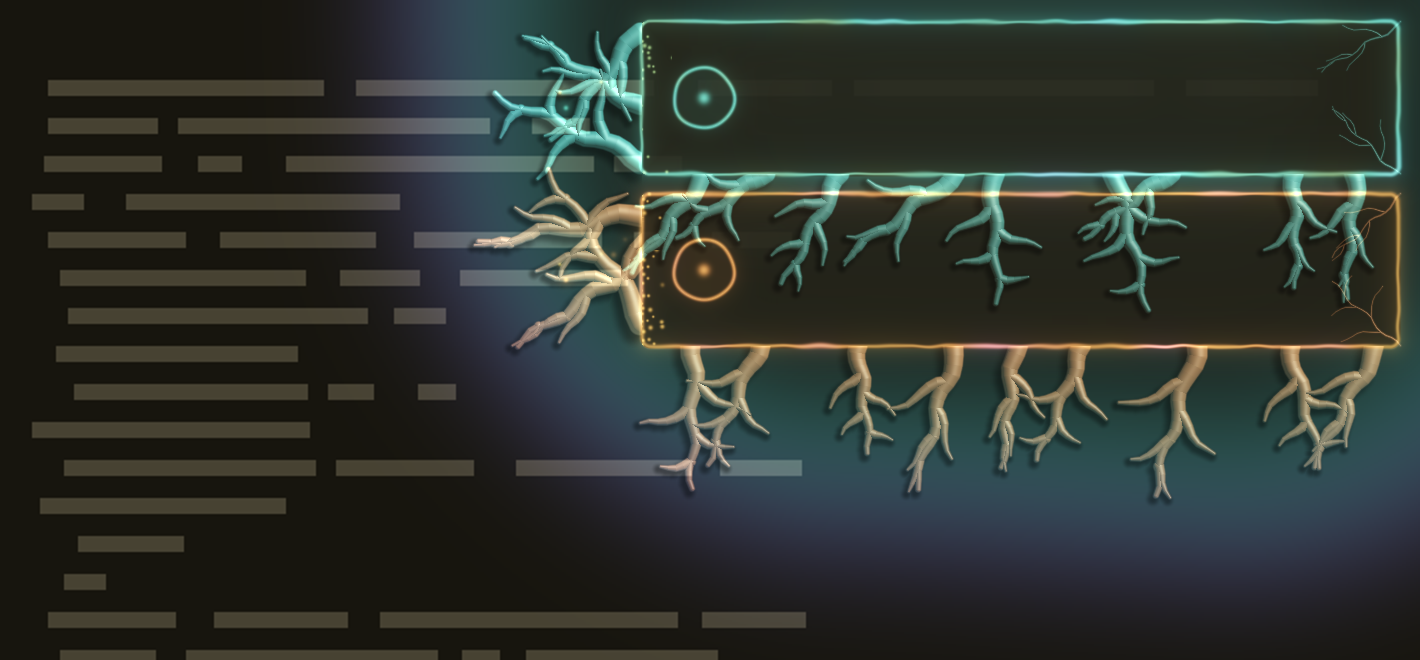
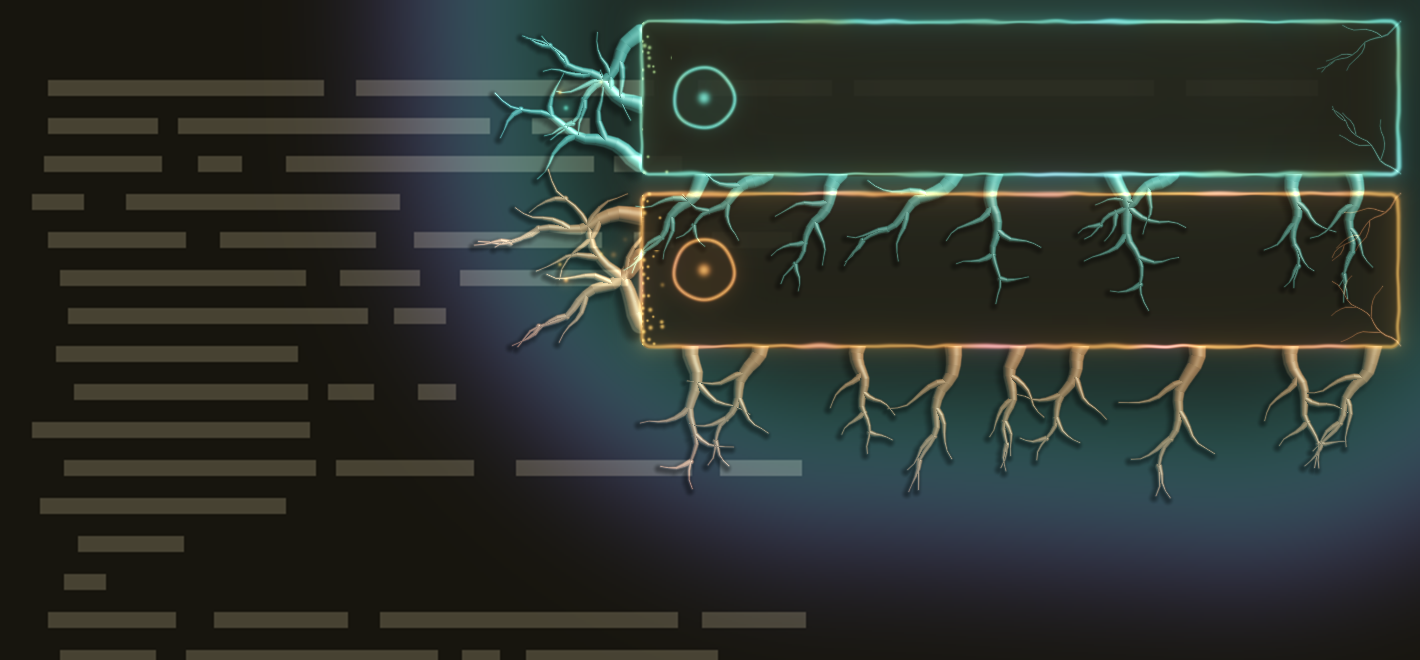
Growth: roots a little thinner at the base and much more tapered
From the user's screenshot of the real shell: the roots stayed fat along most of their length and the side shoots, starting at 70% of the
trunk's radius, looked stubby. The taper is now a concave curve (100, 65, 46, 31, 19, 10% at 0, 20, 40, 60, 80, 100% of the way) ending in a fine
point; the shoots start at about half the trunk's radius; the base is a little thinner (5 times the first version's, was 6). Render only.

Claude-Session: https://claude.ai/code/session_01RawmEkvnbUV4A7X3Nfo38z

diff --git a/AGENTS.md b/AGENTS.md
@@ -312,7 +312,7 @@ uniform-parity contract); `curve()` is replaced by `tube()` (a round tube with a
 specular, and a shadow offset down-left), `over()` and `shoot()`; `vein()` returns `vec4(cover, diffuse, specular, shadow)`; the output now
 has **alpha > 0 for the shadow only** (premultiplied: light in rgb, darkening in alpha), so **`test/growth-test.sh`'s "alpha is 0 everywhere"
 check and its countdown checks are stale, and the roots test's thresholds are untested on thicker roots.** Committed without running the tests
-at the user's request; fix them before releasing. The root radius is `(0.60 + 0.16 * scale) * thick` px at the base: `thick` is 6 for the roots (the user asked in three steps: a little thicker, "at least twice as thick", then "three times thicker now", read as three times the current) and 1 for the faint veins inside the card; the taper is to 28% of the base. Roots are one per 24 px of the card's height on the left (3 to 6) and one per 40 px of its width below (4 to 14); `Tube` is a struct with a `key` (distance from the axis in radii) so overlapping pieces are shaded by the nearer-the-middle one; the shadow offset grows with the radius.
+at the user's request; fix them before releasing. The root radius is `(0.60 + 0.16 * scale) * thick` px at the base: `thick` is 5 for the roots (the user asked in steps: a little thicker, "at least twice as thick", "three times thicker now", read as three times the current, then, from a screenshot of the real shell, "a little thinner than that" and "more tapered") and 1 for the faint veins inside the card; the taper is `taper()`, a concave curve to 10% of the base, and the shoots start at 50% of the trunk's radius. **Look at the user's screenshots of the real shell, not only at the preview: the preview made the straight taper look fine and the screenshot showed stubby branches.** Roots are one per 24 px of the card's height on the left (3 to 6) and one per 40 px of its width below (4 to 14); `Tube` is a struct with a `key` (distance from the axis in radii) so overlapping pieces are shaded by the nearer-the-middle one; the shadow offset grows with the radius.
 
 ## Conventions
 

diff --git a/docs/design/README.md b/docs/design/README.md
@@ -93,9 +93,11 @@ mock-up C, whose wavy outline and ragged strip read as glitches:
   settled on a trunk of 65% exponential (rate 3.5) and 35% gentle ease-out, with shoots starting from 16% of the life in steps of 16% and
   a more linear ease (power 1.5): gains of 34, 25, 13, 11, 8, 6 and 2 points per second (cumulative 34, 59, 72, 83, 91, 97 and 100).
   Fainter veins grow across the card from its right corners.
-  **Roots as lit 3D tubes** (after 0.5.0, `growth-roots-3d.png`): each segment is a round tube with a soft edge, six times as thick as the
-  first lines (asked for in three steps: a little thicker, "at least twice as thick", "three times thicker now"; radius about 4.9 to 5.5 px at
-  the base on the left and 4.7 to 5.1 below, tapering to 28% of that so they end in points; the faint veins inside the card stay thin, so they do
+  **Roots as lit 3D tubes** (after 0.5.0, `growth-roots-3d.png`): each segment is a round tube with a soft edge, five times as thick as the
+  first lines at the base (asked for in steps: a little thicker, "at least twice as thick", "three times thicker now", then, from a screenshot of
+  the real shell, "a little thinner than that" and "more tapered"; radius about 4.1 to 4.6 px at the base on the left and 3.9 to 4.3 below,
+  tapering along a concave curve, `taper()`: 100%, 65%, 46%, 31%, 19% and 10% at 0, 20, 40, 60, 80 and 100% of the way, so they thin quickly
+  and end in fine points; the side shoots start at about half the trunk's radius instead of 70%, so they are slender, not stubby; the faint veins inside the card stay thin, so they do
   not run over the text), and thinned out to make room (about one root per 24 px of the card's height on the left, one per 40 px of
   its width below). Two rendering lessons at this size: shading each segment from its own axis shows the joins (and with ties settled by
   coverage, as stacked beads), so the shading comes from the direction to the nearest point on the spine and, where two pieces overlap, from the

diff --git a/docs/runbooks/live-checklist.md b/docs/runbooks/live-checklist.md
@@ -195,7 +195,7 @@ flipping between the two with the same notifications. The design is `docs/design
 - [ ] the icon ring is very slightly irregular (it should read as organic, not as a lumpy circle)
 - [ ] **there is no countdown line** with this look: the bottom border is a plain border, and the roots are the timer (they are
       still growing until just before the toast goes)
-- [ ] the roots are **very thick** (about six times the first version: about 10 px across at the base, tapering to points; fewer of them: about one per 24 px of height on the left, 40 px of width below) and look **3D** and smooth (no visible joins or beading): round tubes with a lit side towards the top right, a highlight and a soft shadow
+- [ ] the roots are **thick at the base** (about five times the first version: about 8 px across), **thinning quickly** and ending in fine points, with slender side shoots (not stubby); fewer of them: about one per 24 px of height on the left, 40 px of width below) and look **3D** and smooth (no visible joins or beading): round tubes with a lit side towards the top right, a highlight and a soft shadow
       down and to the left on the card and the wallpaper (say if they are too thick, the shading is too strong or too weak, or the
       shadow looks dirty)
 - [ ] a **critical** toast is ember (amber to rose), a **low** one a dark moss
